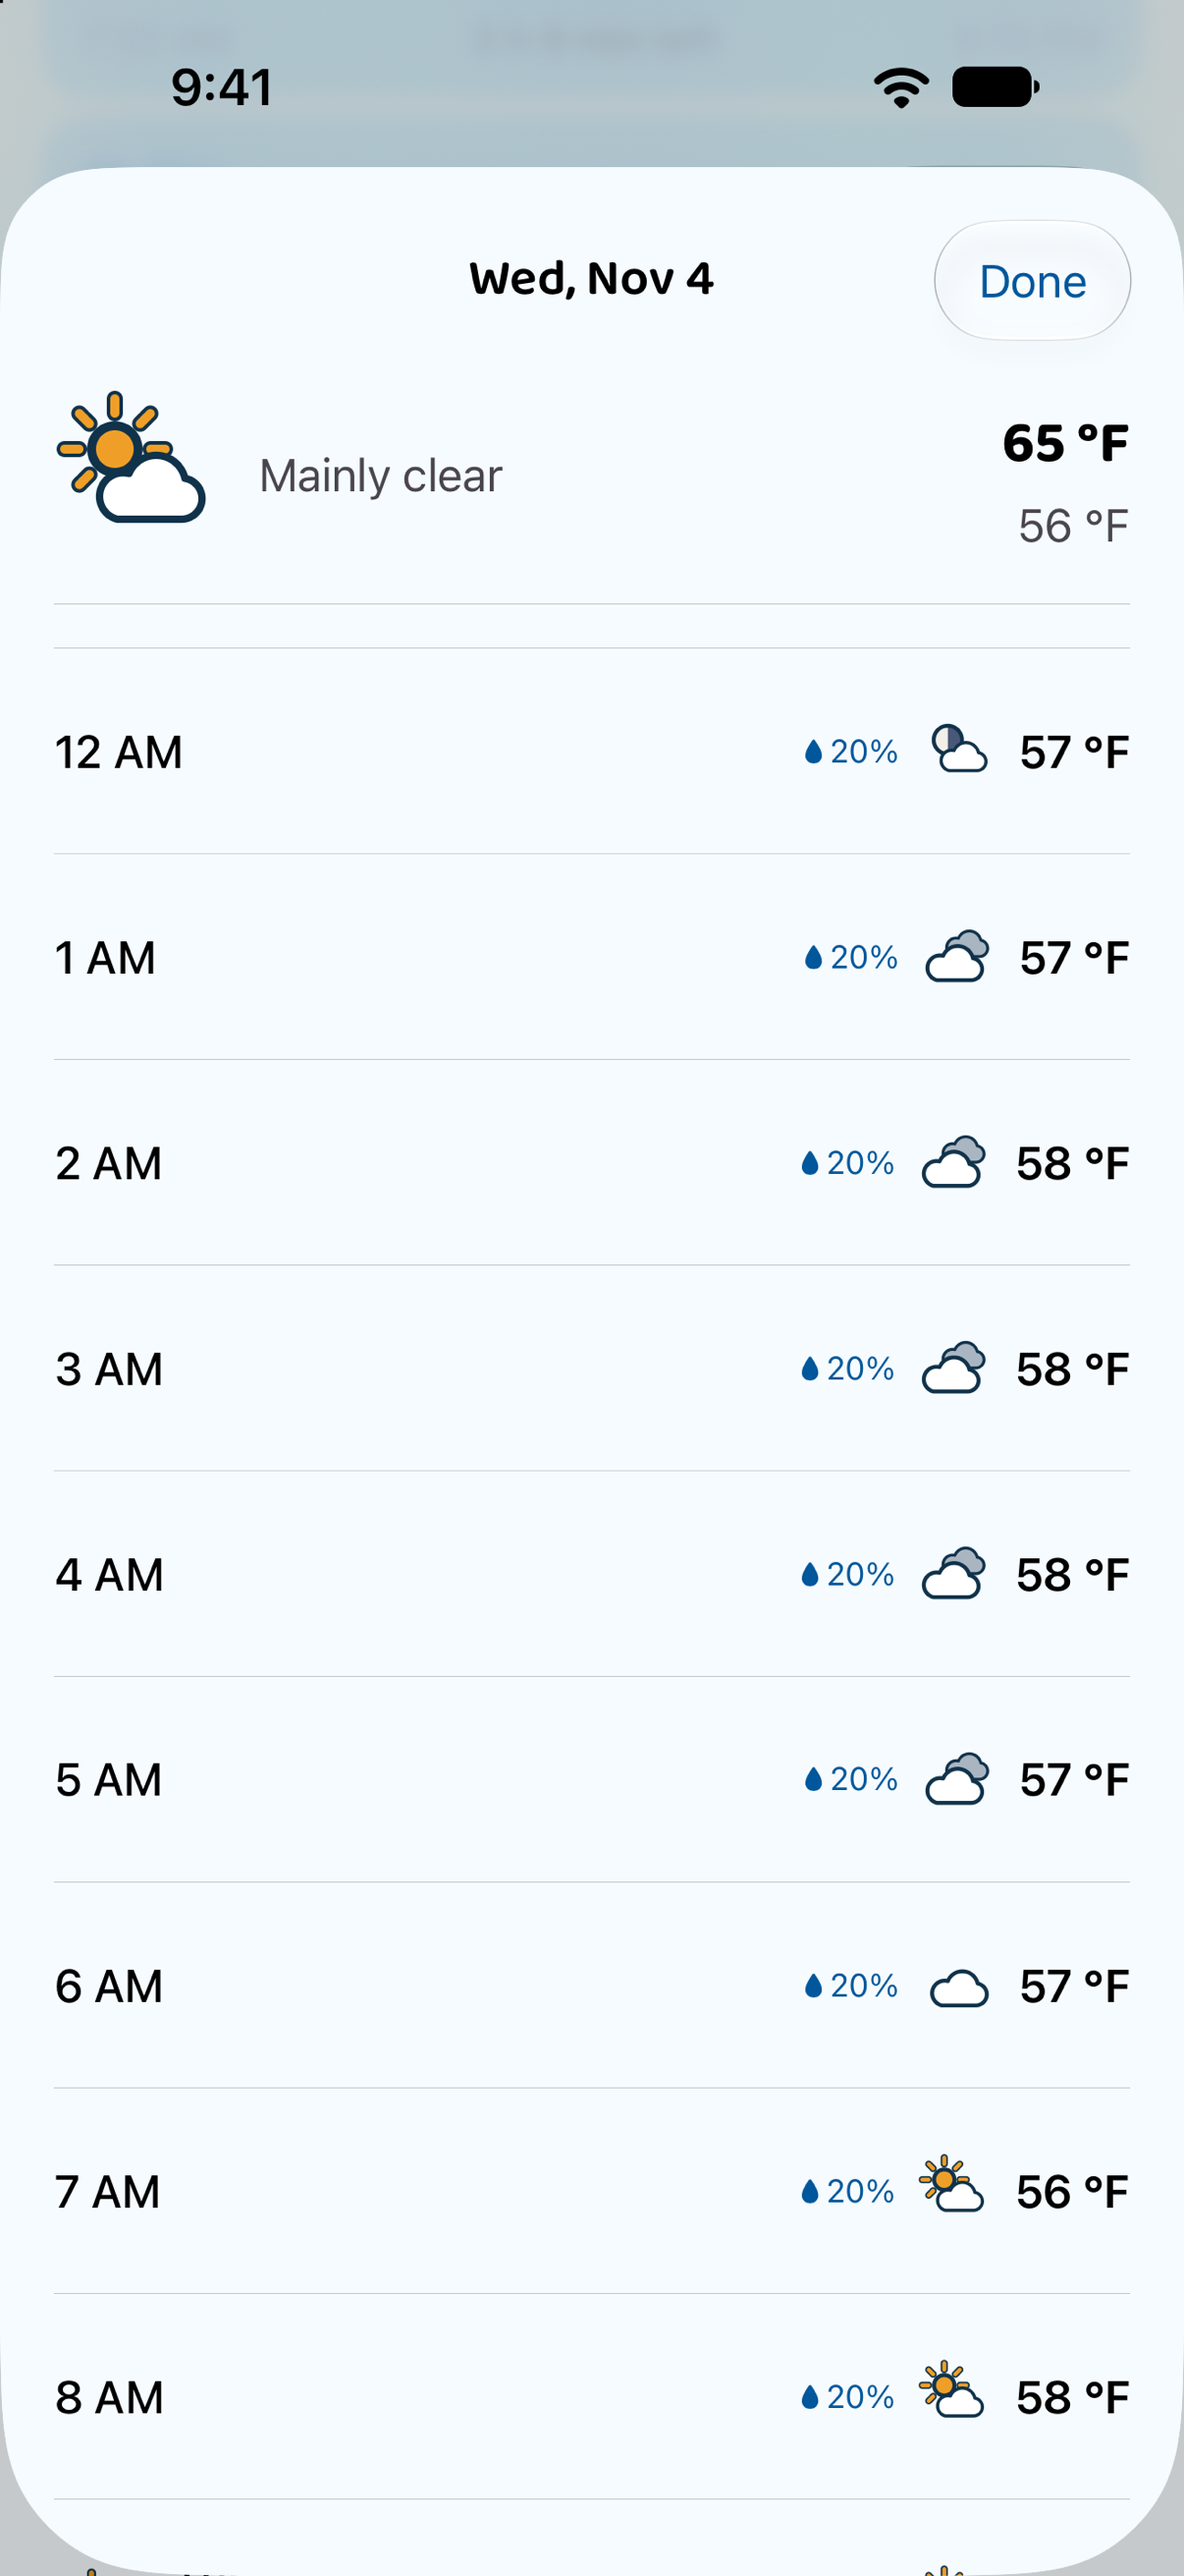
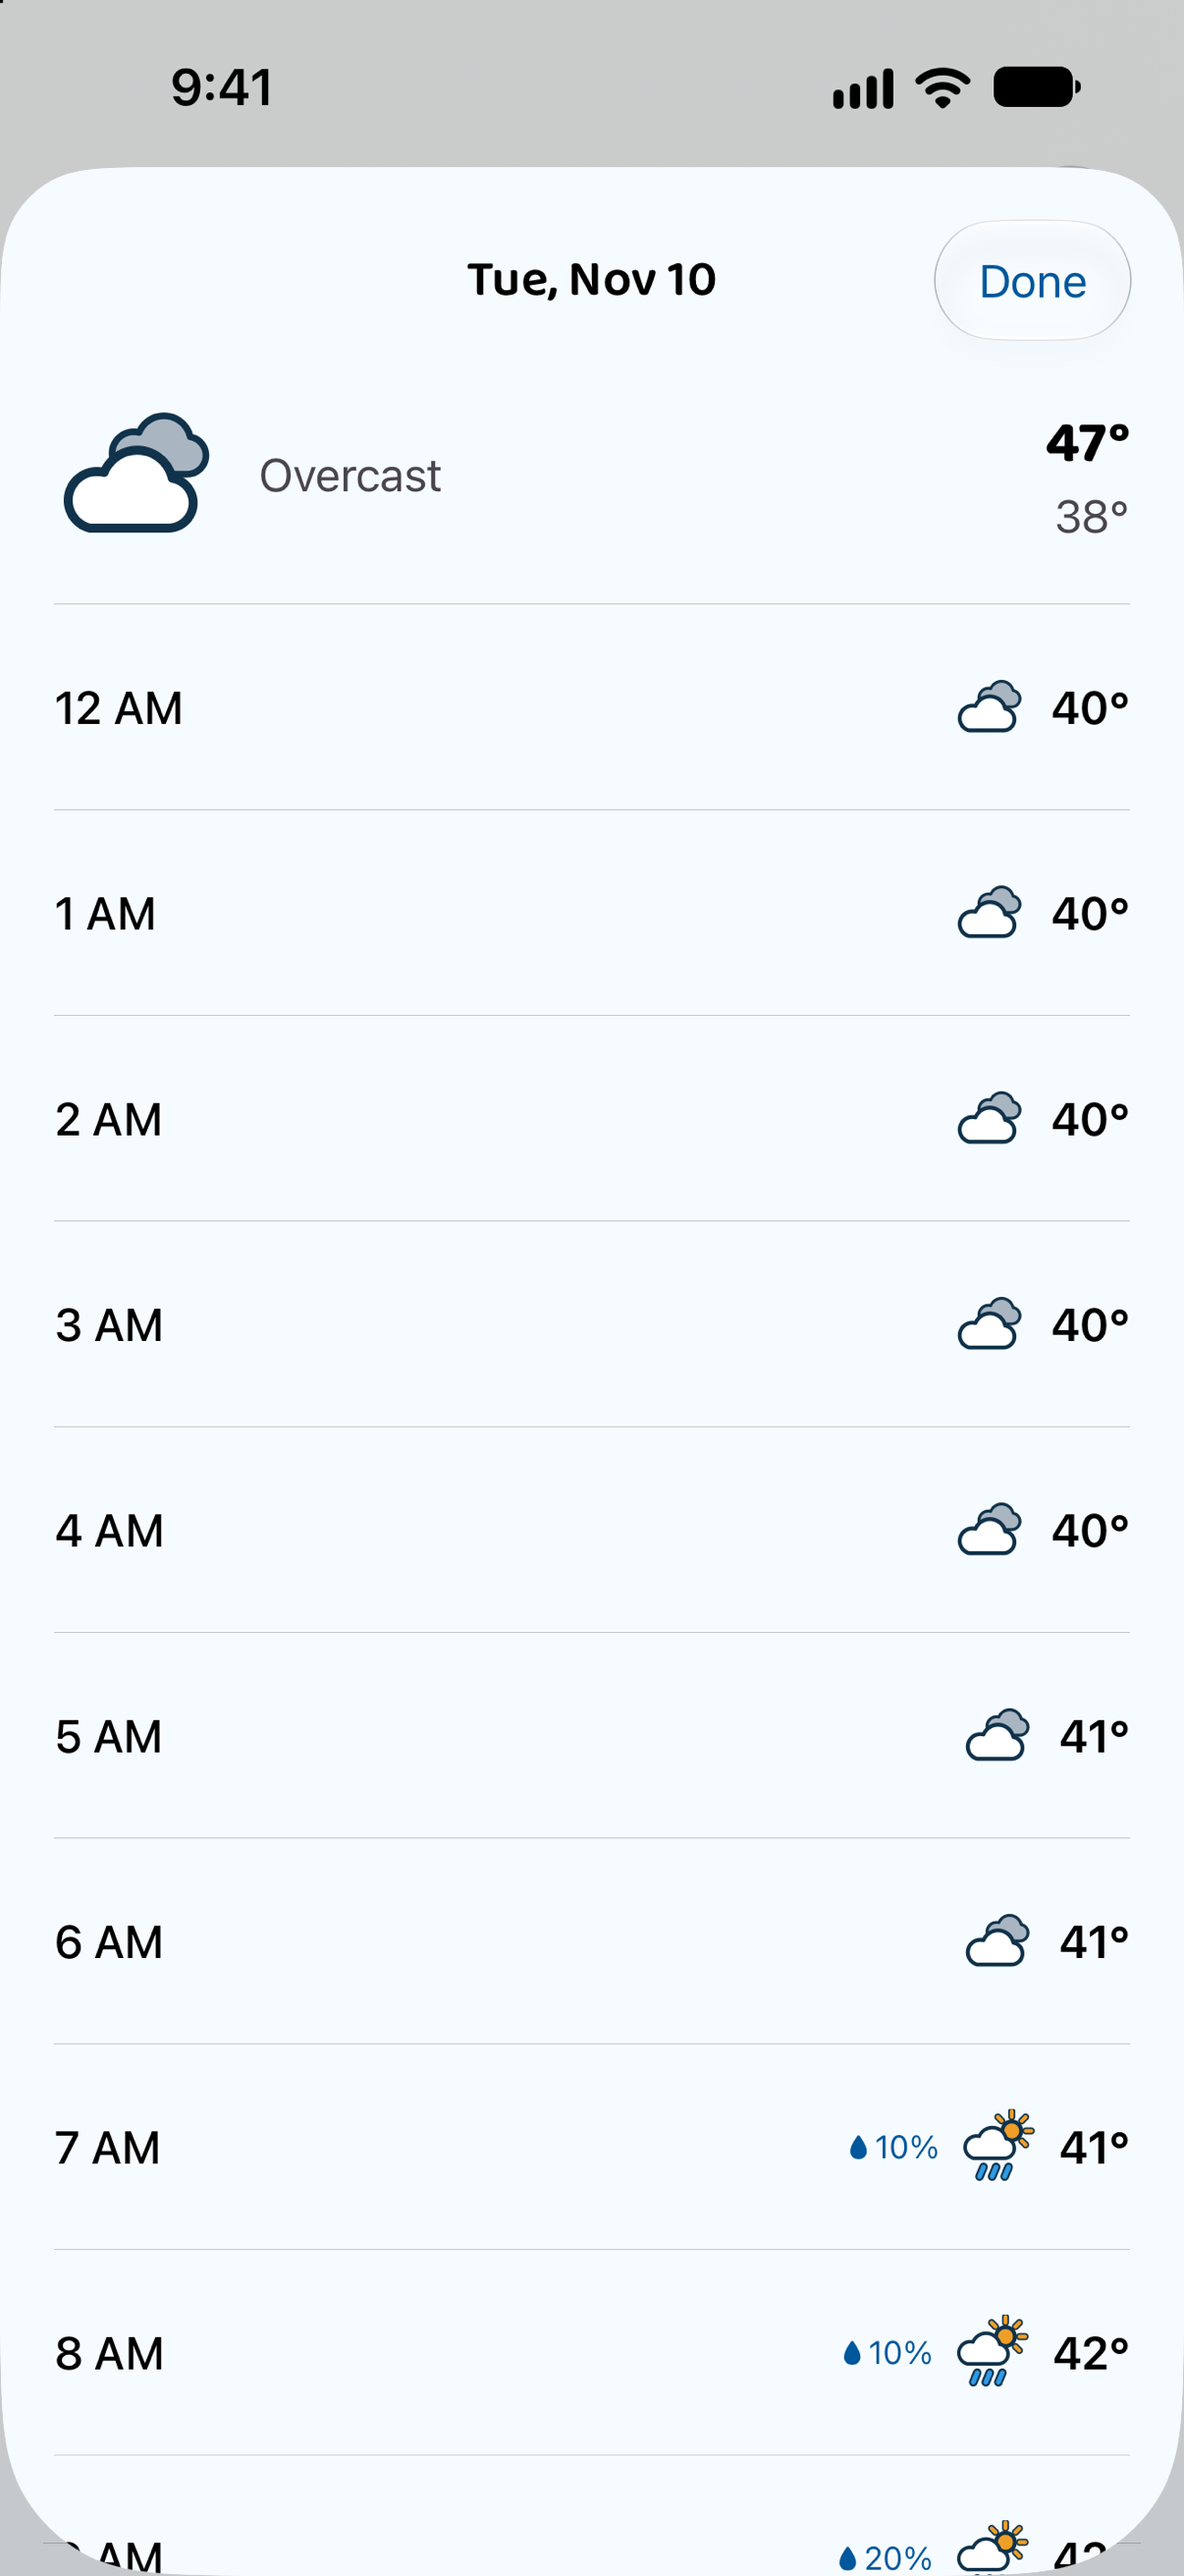
Screenshots: a fresh App Store and README set
The last set was taken on 10-30, before the windsock, Fluff Factor, the
fair hero, the rain chart, Misty's View, the unit-less temperatures and
the home screen without section headers. These are from main, on the
same simulators, with the status bar at 9:41.

The iPhone shots are Vienna on a clear, mild day and Kigali in the rain;
the iPad's bad-air shot is New Delhi, whose air was Unhealthy at the
time, so ipad-02-tokyo.png is now ipad-02-delhi.png. The 6.3-inch set is
the 6.9-inch one scaled down, as before. README and listing.md describe
the new shots.

diff --git a/README.md b/README.md
@@ -15,11 +15,11 @@ Firebase project and the same Remote Config keys, and new features ship on both.
 
 | Pets, walk time & hourly | Today tiles & air quality | Radar & rest of week | Day detail | Settings |
 |---|---|---|---|---|
-| ![Sunny and Misty react to the weather, with best walk time and the hourly strip](./screenshots/current.png) | ![Today's tiles: feels like, wind, humidity, Paw check, air quality across the full width, daylight and Misty's View](./screenshots/today.png) | ![Animated RainViewer radar and the rest of the week](./screenshots/forecast.png) | ![Hour-by-hour temperature and rain chance for a day](./screenshots/day.png) | ![Settings with units, I have a dog and notifications](./screenshots/settings.png) |
+| ![Sunny and Misty in the sun on a clear, mild day, with best walk time and the hourly strip](./screenshots/current.png) | ![Today's tiles: Feels Like, the windsock, Fluff Factor, Paw Check, Air Quality across the full width, Daylight and Misty's View](./screenshots/today.png) | ![Animated RainViewer radar and the rest of the week](./screenshots/forecast.png) | ![Hour-by-hour temperature and rain chance for a day](./screenshots/day.png) | ![Settings with I have a dog, locations, notifications and units](./screenshots/settings.png) |
 
 On iPad and in landscape, the pets sit beside today's details and the week splits into two columns.
-Here Tokyo's air is "Unhealthy", so the walk card says "Bad air. Potty breaks only." and points
-to a cleaner hour:
+Here New Delhi's air is "Unhealthy", so the walk card says "Not a good day for walkies" and
+"Bad air. Potty breaks only.":
 
 ![iPad layout with the pets beside today's details, unhealthy air and the bad-air walk card](./screenshots/tablet.png)
 
@@ -563,18 +563,18 @@ Firebase 13 needs Xcode 26.1 (Swift 6.2.1). The project stays on 12.x until CI m
   name, subtitle, description, keywords and the rest.
 - [`screenshots/app-store/`](screenshots/app-store/) holds the 6.9-inch iPhone screenshots
   (1320 × 2868) and the 13-inch iPad ones (2064 × 2752). App Store Connect requires iPad
-  screenshots because the app runs on iPad. Taken on 10-30 with the status bar at 9:41:
+  screenshots because the app runs on iPad. Taken on 11-07 with the status bar at 9:41:
 
   | File | Shows |
   |---|---|
   | `01-welcome.png` | Onboarding: meet Sunny and Misty |
-  | `02-today.png` | San Francisco (My Location): the pets, "Now is a great time" and the hourly strip |
-  | `03-rain-walk.png` | Bogotá in the rain: the umbrella scene, "Rain stopping around 7:00 PM" and "Tomorrow around 7 AM" |
+  | `02-today.png` | Vienna (My Location) on a clear, mild day: the pets in the sun, "Now is a great time" and the hourly strip |
+  | `03-rain-walk.png` | Kigali in the rain: the umbrella scene, "Tomorrow around 7 AM" and the rain chart, "Rain stopping around 4:00 PM" |
   | `04-radar-week.png` | The animated radar and the rest of the week |
   | `05-day-detail.png` | A day's hour-by-hour detail |
-  | `06-settings.png` | Settings: units, I have a dog, notifications |
-  | `ipad-01-amsterdam.png` | Amsterdam at night, with air quality on Europe's scale |
-  | `ipad-02-tokyo.png` | Tokyo with unhealthy air: "Bad air. Potty breaks only." |
+  | `06-settings.png` | Settings: I have a dog, locations, notifications, units |
+  | `ipad-01-amsterdam.png` | Amsterdam by day, with air quality on Europe's scale and rain on the radar |
+  | `ipad-02-delhi.png` | New Delhi at night with unhealthy air: "Bad air. Potty breaks only." |
 
   Suggested upload order: 02, 03, 04, 05, 06 (01 optional); iPad 02 then 01.
 - Release builds fail if `Cats&Dogs/Secrets.plist` is missing or has no OpenWeather key (the "Check

diff --git a/docs/app-store/listing.md b/docs/app-store/listing.md
@@ -61,7 +61,7 @@ Copy each field into App Store Connect. Character counts are checked against App
 **Screenshots** (both sets are required, because the app runs on iPhone and iPad):
 - 6.3-inch iPhone (1206 × 2622), now the required size: `screenshots/app-store/6.3-inch/`, order 02, 03, 04, 05, 06. These are the 6.9-inch shots scaled down (`sips -z 2622 1206`)
 - 6.9-inch iPhone (1320 × 2868), optional but sharper on the largest phones: `screenshots/app-store/`, same order (01 optional); the README's App Store section lists what each shows
-- 13-inch iPad (2064 × 2752): `screenshots/app-store/ipad-02-tokyo.png`, then `ipad-01-amsterdam.png`
+- 13-inch iPad (2064 × 2752): `screenshots/app-store/ipad-02-delhi.png`, then `ipad-01-amsterdam.png`
 
 ## App Review information
 
